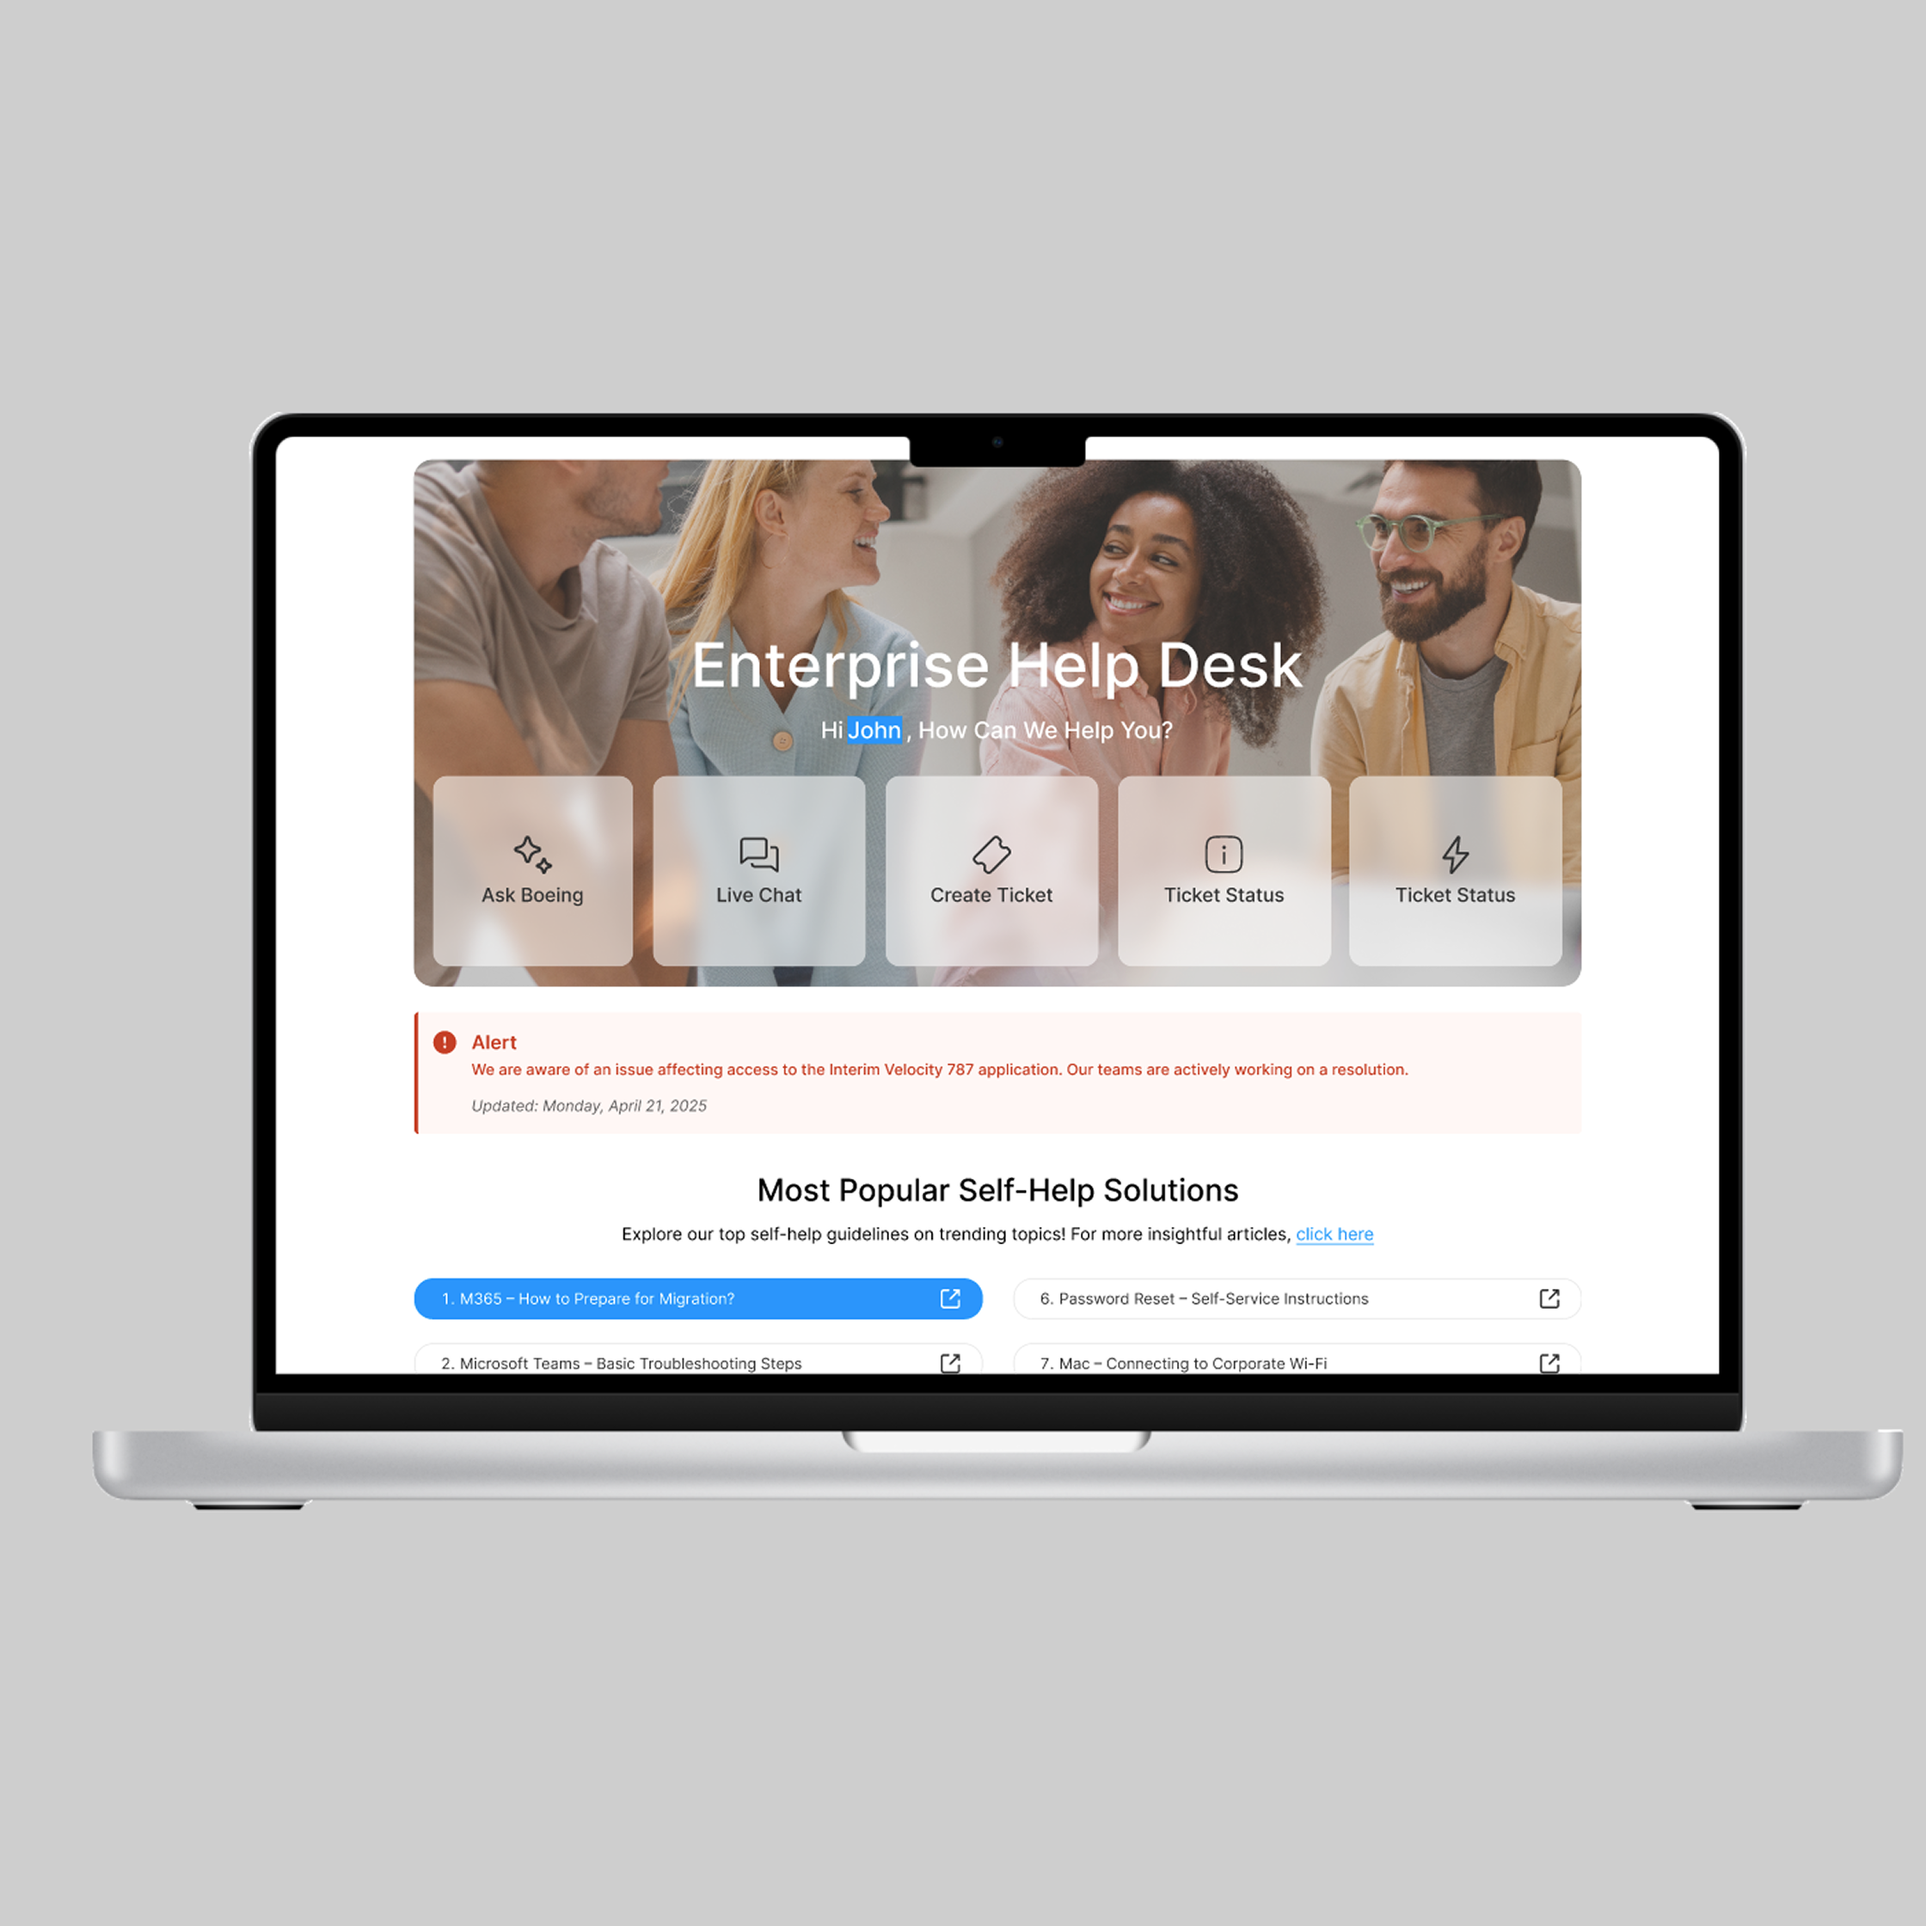
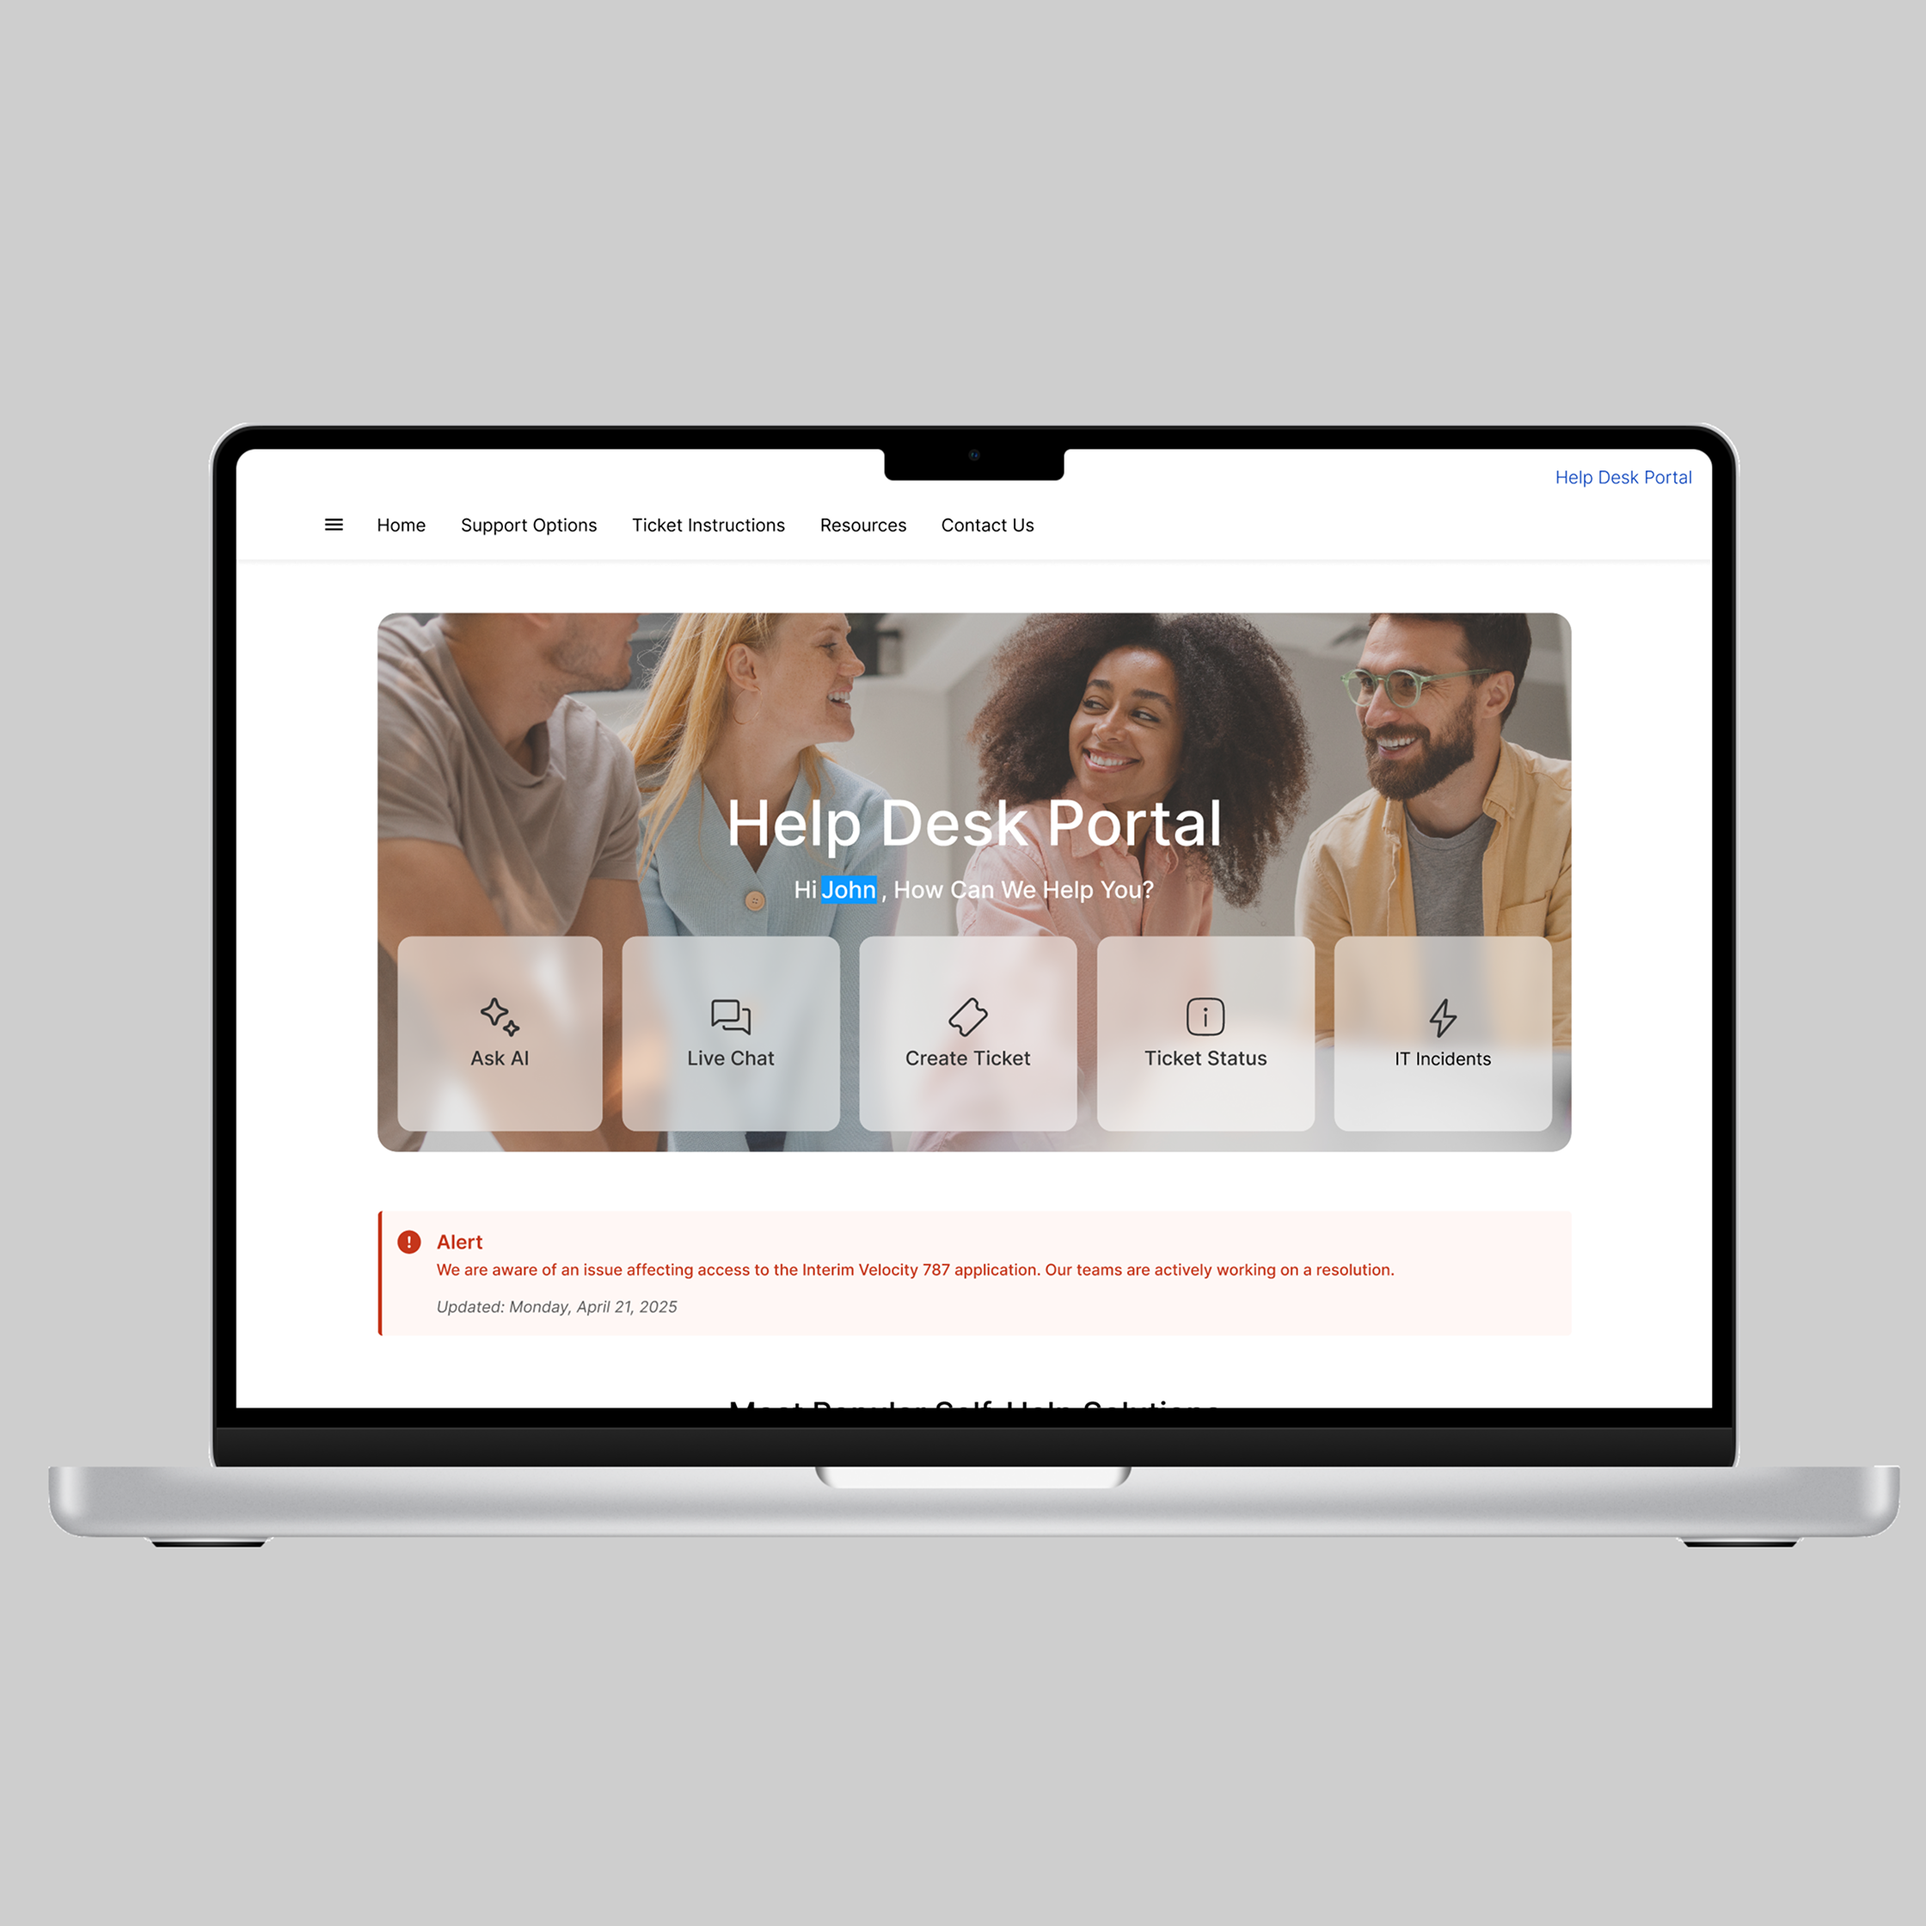
page for internal project added

Changed region(s): [[0.0312, 0.1875, 1.0, 0.8125]]

diff --git a/helpdesk.html b/helpdesk.html
@@ -1,0 +1,177 @@
+<!DOCTYPE html>
+<html lang="en">
+
+<head>
+  <meta charset="UTF-8">
+  <meta http-equiv="X-UA-Compatible" content="IE=edge">
+  <meta name="viewport" content="width=device-width, initial-scale=1.0">
+  <title>Beata Dluzniewska</title>
+  <link rel="icon" type="image/x-icon" href="/images/b-solid.svg">
+  <meta name="description" content="I am an aspiring junior front-end developer and this is my coding portfolio">
+  <link rel="preconnect" href="https://fonts.googleapis.com">
+  <link rel="preconnect" href="https://fonts.gstatic.com" crossorigin>
+  <link
+    href="https://fonts.googleapis.com/css2?family=Playfair+Display:wght@700&family=Poppins:wght@500;700&family=Roboto:wght@300&display=swap"
+    rel="stylesheet">
+  <link href="https://cdn.jsdelivr.net/npm/bootstrap@5.3.0-alpha1/dist/css/bootstrap.min.css" rel="stylesheet"
+    integrity="sha384-GLhlTQ8iRABdZLl6O3oVMWSktQOp6b7In1Zl3/Jr59b6EGGoI1aFkw7cmDA6j6gD" crossorigin="anonymous">
+  <script src="https://cdn.jsdelivr.net/npm/bootstrap@5.3.0-alpha1/dist/js/bootstrap.bundle.min.js"
+    integrity="sha384-w76AqPfDkMBDXo30jS1Sgez6pr3x5MlQ1ZAGC+nuZB+EYdgRZgiwxhTBTkF7CXvN"
+    crossorigin="anonymous"></script>
+  <script src="https://kit.fontawesome.com/25af24832f.js" crossorigin="anonymous"></script>
+  <link rel="stylesheet" href="styles/portfolio.css">
+</head>
+
+<body>
+  <nav class="d-flex justify-content-between align-items-center sticky-top">
+    <div class="logo">
+      <div>BD</div>
+    </div>
+    <ul>
+      <li class="active"><a href="/" title="Homepage">Home</a></li>
+      <li><a href="/#about-me" title="About me">About</a></li>
+      <li><a href="/#work" title="my work">Work</a></li>
+      <li><a href="/#contact" title="Contact me">Contact</a></li>
+    </ul>
+  </nav>
+  <!-- <div class="hero">
+    <img src="images/BeataDluzniewskaImage.jpg" alt="Beata's picture" class="img-fluid picture mb-3" />
+    <p>Hi, my name is</p>
+    <h1>Beata Dluzniewska</h1>
+    <h2 class="p-4">
+      <div class="typing-container">
+        <p>I am <span class="typed-text"></span><span class="cursor">&nbsp;</span></p>
+      </div>
+    </h2>
+    <div class="button-container"><a href="/#contact" class="btn btn-branding-outline-header "><i
+          class="fa-regular fa-message"></i> contact me </a> <a href="/#work"
+        class="btn btn-branding-outline-header-blue"><i class="fa-solid fa-lines-leaning"></i> my projects</a></div>
+
+  </div> -->
+
+  <div class="container" id="about-me">
+    <div class="project-description mx-2 my-5">
+      <div class="row project-container">
+
+        <div class="col">
+          <div class="project-description">
+            <h2 class="mb-md-5 section-header">Help Desk Portal</h2>
+            <p class="mb-md-5 text-muted">A concept redesign of an internal support platform focused on improving
+              access to technical help, documentation, and
+              support channels within a complex enterprise environment.</p>
+          </div>
+        </div>
+        <div class="col d-none d-lg-block"> <img src="images/laptop-ehd.png" class="img-fluid project-img"
+            alt="weather app" />
+        </div>
+      </div>
+
+      <h2 class="project-title">Context</h2>
+      <p class="text-justify text-muted">The project was based on an existing internal support system that required
+        migration to a new platform and significant
+        UX improvements. The goal was to redesign the structure and interface to support high daily usage, diverse
+        content
+        types, and multiple support flows.</p>
+      <hr class="my-5">
+      <h2 class="project-title">My role</h2>
+      <p class="text-justify text-muted">I was responsible for UX design, information architecture, and interface
+        design. I worked closely with developers to
+        understand platform constraints and ensure the design aligned with backend capabilities and system
+        limitations.
+      </p>
+      <hr class="my-5">
+      <h2 class="project-title">Key challenges</h2>
+      <ul class="text-justify text-muted">
+        <li>Designing within strict platform and technical constraints</li>
+        <li>Supporting multiple support channels (tickets, documentation, live chat)</li>
+        <li>Structuring large amounts of content in a scalable way</li>
+        <li>Designing reusable components for alerts, navigation, and dynamic content</li>
+        <li>Ensuring clarity and usability for a wide internal user base</li>
+      </ul>
+      <hr class="my-5">
+      <h2 class="project-title">Process & approach</h2>
+      <p class="text-justify text-muted">The project started with a UX/UI assessment of the existing system,
+        followed by collaboration with multiple teams to
+        identify limitations, opportunities, and required features. Based on this input, I designed a clear
+        information
+        architecture and interface structure, iterating on layouts and components to balance usability, consistency,
+        and
+        technical feasibility.
+      </p>
+      <hr class="my-5">
+      <h2 class="project-title">Solution</h2>
+      <div class="row mb-5">
+        <div class="col d-none d-lg-block"> <img src="images/helpdesk2.png" class="img-fluid project-img"
+            alt="weather app" />
+        </div>
+        <div class="col d-none d-lg-block"> <img src="images/helpdesk3.png" class="img-fluid project-img"
+            alt="weather app" />
+        </div>
+      </div>
+      <p class="text-justify text-muted">The final design provides a clear entry point to support options,
+        structured navigation, and consistent UI patterns,
+        making it easier for users to quickly find help or escalate issues.
+      </p>
+
+
+      <hr class="my-5">
+
+      <div class="row project-container">
+        <div class="col d-none d-lg-block"> <img src="images/helpdesk-mobile.png" class="img-fluid project-img"
+            alt="weather app" />
+        </div>
+        <div class="col">
+          <div class="project-description">
+            <h2 class="project-title">Outcome</h2>
+            <p class="text-justify text-muted">The resulting design demonstrates how complex, system-driven requirements
+              can be translated into a clear and usable
+              interface. The project highlights my ability to work at the intersection of UX, frontend design, and
+              technical
+              constraints.
+            </p>
+          </div>
+        </div>
+
+      </div>
+    </div>
+  </div>
+
+
+
+  <div class="contact-section py-3" id="contact">
+    <div class="container">
+      <h1 class="my-4">Let's get in touch!</h1>
+      <div class="contact justify-content-between align-items-center ">
+        <p class="text-justify">
+          For work inquiries or collaboration, feel free to contact me via email <span class="copy-email"
+            data-email="dluzniewska.b@gmail.com">(<i class="fa-regular fa-copy copy-icon" aria-hidden="true"></i>
+            dluzniewska.b@gmail.com)</span> or
+          social
+          media.
+        </p>
+        <!-- <a href="mailto:dluzniewska.b@gmail.com">dluzniewska.b@gmail.com</a> -->
+      </div>
+      <footer>
+        <div class="contact-me">
+          <a href="mailto:dluzniewska.b@gmail.com" target="_blank" class="social-link"><i
+              class="fa-solid fa-envelope"></i></a>
+          <a href="https://www.linkedin.com/in/beata-d%C5%82u%C5%BCniewska-4630ba168/" target="_blank"
+            class="social-link"><i class="fa-brands fa-linkedin"></i></a>
+          <a href="https://github.com/beatadluzniewska" target="_blank" class=" social-link"><i
+              class="fa-brands fa-github"></i></a>
+          <a href="https://www.behance.net/beatadluzniewska" target="_blank" class=" social-link"><i
+              class="fa-brands fa-square-behance"></i></a>
+        </div>
+        <p class="credits">Coded by Beata Dluzniewska, this project is <a
+            href="https://github.com/beatadluzniewska/Portfolio-project" title="github repository"
+            target="_blank">open-sourced</a></p>
+      </footer>
+    </div>
+  </div>
+
+
+
+  <script src="src/app.js"></script>
+</body>
+
+</html>

diff --git a/index.html b/index.html
@@ -20,8 +20,6 @@
     crossorigin="anonymous"></script>
   <script src="https://kit.fontawesome.com/25af24832f.js" crossorigin="anonymous"></script>
   <link rel="stylesheet" href="styles/portfolio.css">
-
-
 </head>
 
 <body>
@@ -113,7 +111,7 @@
       </div>
       <div class="col">
         <div class="project-description">
-          <h2 class="mb-md-5 project-title">Helpdesk Portal (Internal Product)</h2>
+          <h2 class="mb-md-5 project-title">Help Desk Portal (Internal Product)</h2>
           <p class="mb-md-5 text-muted">UX design for a mission-critical internal Helpdesk portal used daily by Boeing
             employees. I led a comprehensive UX/UI
             assessment of the existing Enterprise Helpdesk system in close collaboration with multiple teams, aligning
@@ -124,9 +122,11 @@
           <p class="text-muted mb-md-5"><b style="color: #0000ff;">Stack:</b> Figma · HTML · CSS · JavaScript ·
             JavaScript
             APIs · Internal Platform Backend · Photoshop</p>
-          <a href="https://www.figma.com/proto/MU3ZsQeN6XdfBZr7YRQIh5/EHD--internal-acess-?node-id=0-1&t=ZgGgxcJcAE23ikGC-1"
+          <a href="/helpdesk.html" class="btn btn-branding"><i class="fa-solid fa-arrow-right"></i> View project
+            details</a>
+          <!-- <a href="https://www.figma.com/proto/MU3ZsQeN6XdfBZr7YRQIh5/EHD--internal-acess-?node-id=0-1&t=ZgGgxcJcAE23ikGC-1"
             class="btn btn-branding" target="_
-                  _blank"><i class="fa-brands fa-figma"></i> See Figma mockup (internal access)</a>
+                                              _blank"><i class="fa-brands fa-figma"></i> View project details</a> -->
         </div>
       </div>
     </div>

diff --git a/styles/portfolio.css b/styles/portfolio.css
@@ -45,7 +45,7 @@ p {
 .hero {
     background: radial-gradient(
         circle,
-        rgba(239, 239, 239) 10%,
+        #efefef 10%,
         rgba(255, 255, 255, 1) 100%
     );
     text-align: center;
